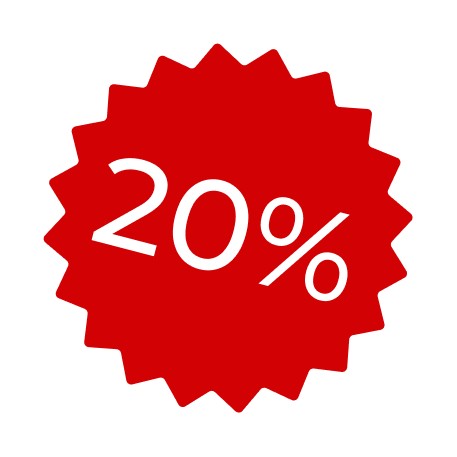
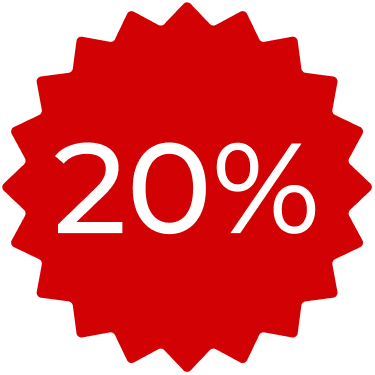
hero new slide

diff --git a/dev/sass/main_hero.scss b/dev/sass/main_hero.scss
@@ -32,8 +32,7 @@ section.hero, .hero {
             top: 50%;
             left: 50%;
             width: 100%;
-            transform: translate(-50%, -50%);
-            
+            transform: translate(-50%, -50%); 
         }
         // .slide__content
         &__content {
@@ -77,6 +76,57 @@ section.hero, .hero {
             margin-bottom: 1rem;
             p:not(:last-child) {
                 margin-bottom: 16px;
+            }
+        }
+        &__third {
+            & .slide__img {
+                object-position: left;
+            }
+            & .slide__container {
+                height: 100%;
+                display: flex;
+                align-items: center;
+            }
+            & .slide__content {
+                display: flex;
+                flex-direction: column;
+                max-width: 564px;
+                gap: 16px;
+                margin-right: auto;
+                margin-left: 0;
+                padding: 38px 32px;
+                background: $color_gradient-orange;
+                border-radius: 16px;
+                height: auto;
+            }
+            & .slide__title {
+                color: $color_error;
+                background: transparent;
+                background-clip: unset;
+                -webkit-background-clip: unset;
+                -webkit-text-fill-color: unset;
+                font-size: 2.5rem;
+                margin-bottom: 0.55em;
+            }
+            & .slide__text {
+                color: $color_white;
+                & span {
+                    color: $color_yellow;
+                }
+                & p:not(:last-child) {
+                    margin-bottom: 11px;
+                }
+            }
+            & .slide__btn {
+                background-color: $color_yellow;
+            }
+            & .slide__image-additoional {
+                position: absolute;
+                top: 0;
+                right: -6.5%;
+                transform: rotate(15deg);
+                width: 27%;
+                height: auto;
             }
         }
     }

diff --git a/dev/templates/main_hero.html b/dev/templates/main_hero.html
@@ -31,19 +31,20 @@
                     </div>
                 </div>
             </div>
-            <div class="swiper-slide slide">
+            <div class="swiper-slide slide slide__third">
                 <div class="slide__img-box">
                     <img class="slide__img" src="../assets/img/main_hero_3.png" alt="Main img">
                 </div>
                 <div class="slide__container">
                     <div class="slide__content">
-                        <h1 class="slide__title">Tea store</h1>
-                        <h2 class="title subtitle slide__subtitle">Відкрийте для себе світ справжнього чаю!</h2>
+                        <h1 class="slide__title">Тепла осінь з нами!</h1>
                         <div class="body-text slide__text">
-                            <p>Насолоджуйтесь найкращими сортами чаю з усього світу, створеними для вашого затишку та натхнення.</p>
+                            <p>Час загорнутися у ковдру з чашкою ароматного чаю! Осінні смаки вже чекають на вас зі знижкою 20%</p>
+                            <p><span>Акція діє до кінця осіні!</span></p>
                         </div>
                         <a href="#" class="btn slide__btn">Перейти в каталог</a>
                     </div>
+                    <img class="slide__image-additoional" src="../assets/img/main_hero_3_element.png" alt="Discount image">
                 </div>
             </div>
         </div>  

diff --git a/dev/sass/feedback.scss b/dev/sass/feedback.scss
@@ -11,45 +11,45 @@
 	& .swiper-pagination {
 		bottom: 0px;
 	}
-}
-.slide {
-    background-color: $color_green_main;
-	border-radius: 16px;
-	height: auto;
-	min-height: 438px;
-	position: relative;
-	// .slide__content
-	&__content {
-		padding: 16px;
-		display: flex;
-		flex-direction: column;
-		gap: 10px;
-		width: 51%;
-	}
-	// .slide__stars
-	&__stars {
-		margin-bottom: 2px;
-	}
-	// .slide__text
-	&__text {
-		& p:not(:last-child) {
-			margin-bottom: 10px;
-		}
-	}
-	// .slide__image-box
-	&__image-box {
-		height: 100%;
-		position: absolute;
-		top: 0;
-		right: 0;
-		width: 49%;
-	}
-	// .slide__photo
-	&__photo {
-        width: 100%;
-		height: 100%;
-		object-fit: cover;
-		object-position: center;
+	.slide {
+		background-color: $color_green_main;
 		border-radius: 16px;
+		height: auto;
+		min-height: 438px;
+		position: relative;
+		// .slide__content
+		&__content {
+			padding: 16px;
+			display: flex;
+			flex-direction: column;
+			gap: 10px;
+			width: 51%;
+		}
+		// .slide__stars
+		&__stars {
+			margin-bottom: 2px;
+		}
+		// .slide__text
+		&__text {
+			& p:not(:last-child) {
+				margin-bottom: 10px;
+			}
+		}
+		// .slide__image-box
+		&__image-box {
+			height: 100%;
+			position: absolute;
+			top: 0;
+			right: 0;
+			width: 49%;
+		}
+		// .slide__photo
+		&__photo {
+			width: 100%;
+			height: 100%;
+			object-fit: cover;
+			object-position: center;
+			border-radius: 16px;
+		}
 	}
 }

diff --git a/dev/templates/markup.html b/dev/templates/markup.html
@@ -44,6 +44,10 @@
                     <span class="color__name">$color_orange: #F48726;</span>
                 </div>
                 <div class="color__item">
+                    <div class="color__view color__view-8_2"></div>
+                    <span class="color__name">$color_yellow: #FFE45F;</span>
+                </div>
+                <div class="color__item">
                     <div class="color__view color__view-9"></div>
                     <span class="color__name">$color_grey: #A2A2A2;</span>
                 </div>
@@ -72,6 +76,10 @@
                     <div class="color__view color__view-15"></div>
                     <span class="color__name">$color_gradient-additional: linear-gradient(90deg, #34c357 0%, #339580
                         34.5%, #22e165 100%);</span>
+                </div>
+                <div class="color__item">
+                    <div class="color__view color__view-16"></div>
+                    <span class="color__name">$color_gradient-orange: linear-gradient(180deg, #ffa250 0%, #8c1b1b 100%);</span>
                 </div>
             </div>
         </div>

diff --git a/dev/sass/variables.scss b/dev/sass/variables.scss
@@ -19,6 +19,7 @@ $color_black: #414141;
 $color_beige: #FCF2E2;
 $color_khaki: #847D52;
 $color_orange: #F48726;
+$color_yellow: #FFE45F;
 $color_grey: #A2A2A2;
 
 $color_error: #DB1B1B;
@@ -28,6 +29,7 @@ $color_disable-secondary: #EFECEC;
 $color_gradient: linear-gradient(180deg, #d0edc4 0%, #86aa78 100%);
 $color_gradient-secondary: linear-gradient(90deg, #1e4a0d 0%, #99c487 100%);
 $color_gradient-additional: linear-gradient(90deg, #34c357 0%, #339580 34.5%, #22e165 100%);
+$color_gradient-orange: linear-gradient(180deg, #ffa250 0%, #8c1b1b 100%);
 
 $shadow_button: 0 2px 4px 0 #3b3b3b33, inset 0 -2px 4px 0 #3b3b3b26;
 $shadow_button-hover: 0 2px 4px 0 #3b3b3b33, inset 0 -2px 4px 0 #3b3b3b26, 4px 4px 10px 0 #3b3b3b40;

diff --git a/dev/sass/global.scss b/dev/sass/global.scss
@@ -580,6 +580,11 @@ input[type=search] {
             background-color: $color_orange;
       }
 
+      // .color__view-8_2
+      &__view-8_2 {
+            background-color: $color_yellow;
+      }
+
       // .color__view-9
       &__view-9 {
             background-color: $color_grey;
@@ -613,6 +618,11 @@ input[type=search] {
       // .color__view-15
       &__view-15 {
             background: $color_gradient-additional;
+      }
+
+      // .color__view-16
+      &__view-16 {
+            background: $color_gradient-orange;
       }
 }
 
